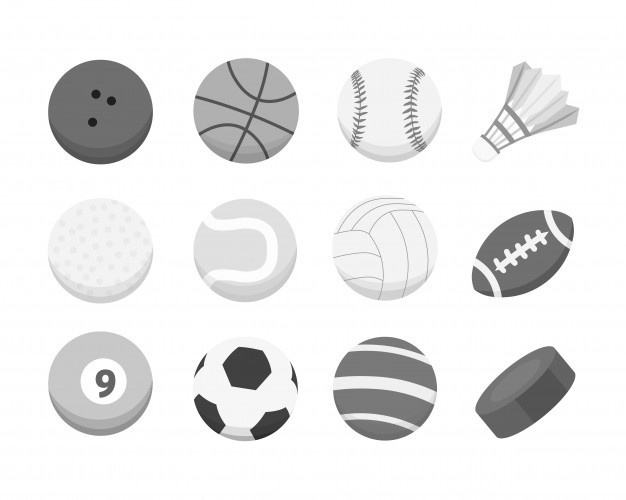
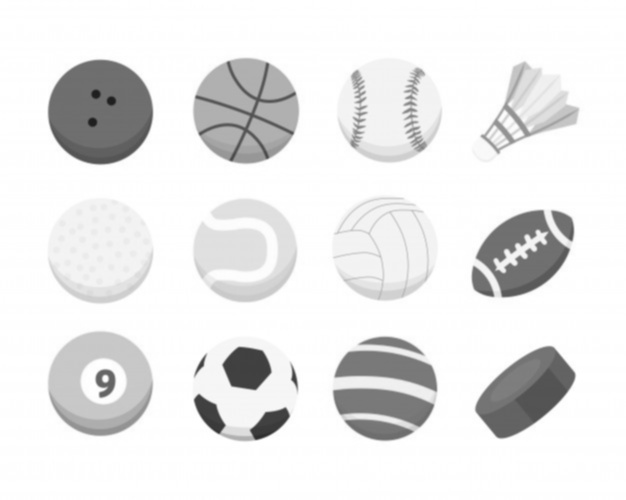
Before blue

diff --git a/Rafael/atividade7/main.cpp b/Rafael/atividade7/main.cpp
@@ -3,7 +3,30 @@
 
 using namespace cv;
 
-void getImageLayers(cv::Mat &src, cv::Mat *dst)
+void getImageLayers(Mat &src, Mat *dst);
+void getMaskFromHue(Mat &src, Mat &dst, int begin, int end);
+
+int main()
+{
+    char filename[100];
+
+    Mat gray, bgr, hsv;
+    bgr = imread("../images/ball.jpg", IMREAD_COLOR);
+    GaussianBlur(bgr, bgr, Size(3, 3), 0, 0, BORDER_DEFAULT);
+    cvtColor(bgr, gray, COLOR_BGR2GRAY);
+    cvtColor(bgr, hsv, COLOR_BGR2HSV);
+    imwrite("../images/gray.jpg", gray);
+    imwrite("../images/hsv.jpg", hsv);
+
+
+    // GET BLUE BALL
+    Mat mask;
+    getMaskFromHue(hsv, mask, 100, 110);
+    imwrite("../images/mask.jpg", mask);
+    return 0;
+}
+
+void getImageLayers(Mat &src, Mat *dst)
 {
     for (int bit = 0; bit < 8; bit++)
     {
@@ -19,17 +42,18 @@ void getImageLayers(cv::Mat &src, cv::Mat *dst)
     }
 }
 
-int main()
+void getMaskFromHue(Mat &src, Mat &mask, int begin, int end)
 {
-    char filename[100];
 
-    Mat gray, bgr, hsv;
-    gray = imread("../images/ball.jpg", IMREAD_GRAYSCALE);
-    bgr = imread("../images/ball.jpg", IMREAD_COLOR);
-    cvtColor(bgr, hsv, COLOR_BGR2HSV);
-    imwrite("../images/gray.jpg", gray);
-    imwrite("../images/hsv.jpg", hsv);
-    return 0;
+    mask = Mat::zeros(src.size(), CV_8UC1);
+    for (int i = 0; i < src.rows; i++)
+    {
+        for (int j = 0; j < src.cols; j++)
+        {
+            uchar hue = src.at<Vec3b>(i, j)[0];
+            mask.at<uchar>(i, j) = begin < hue and hue <= end ? 255 : 0;
+        }
+    }
 }
 
 // // GET BIT LAYERS:
